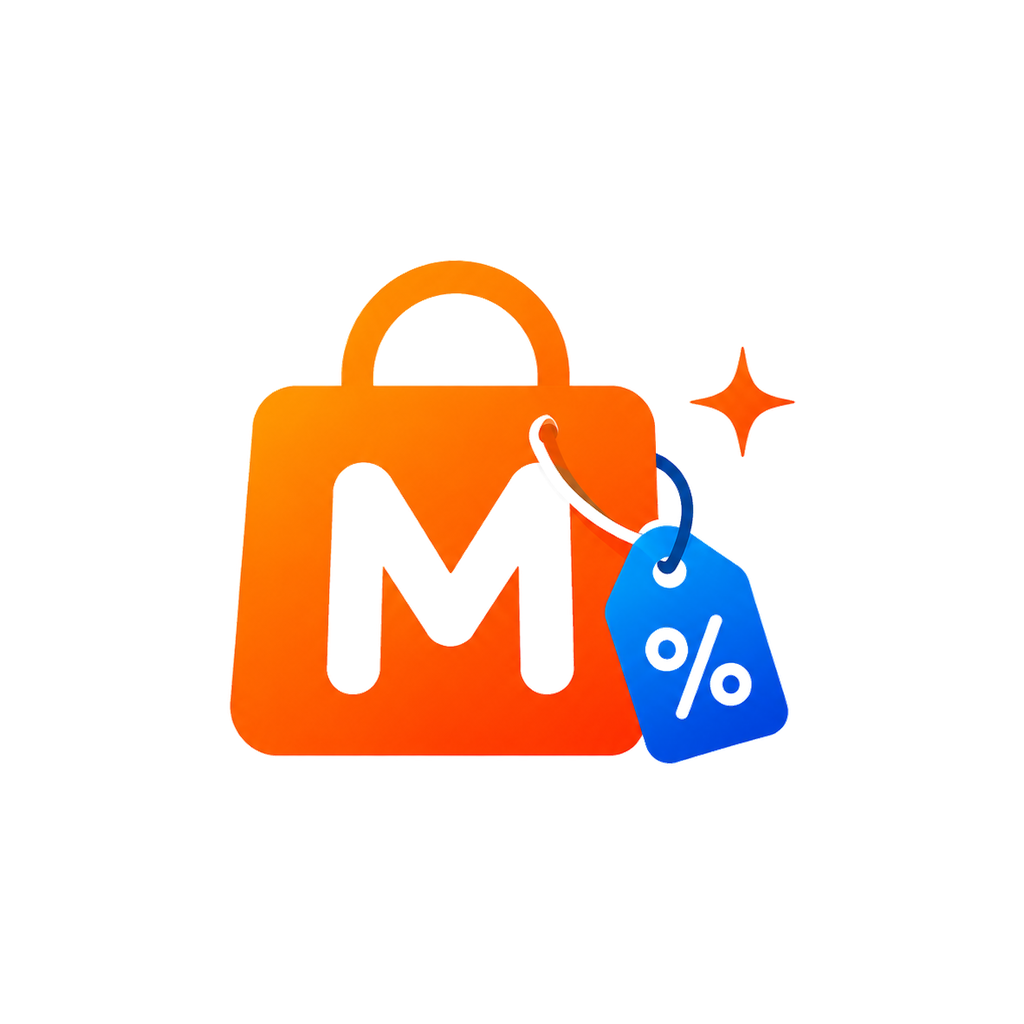
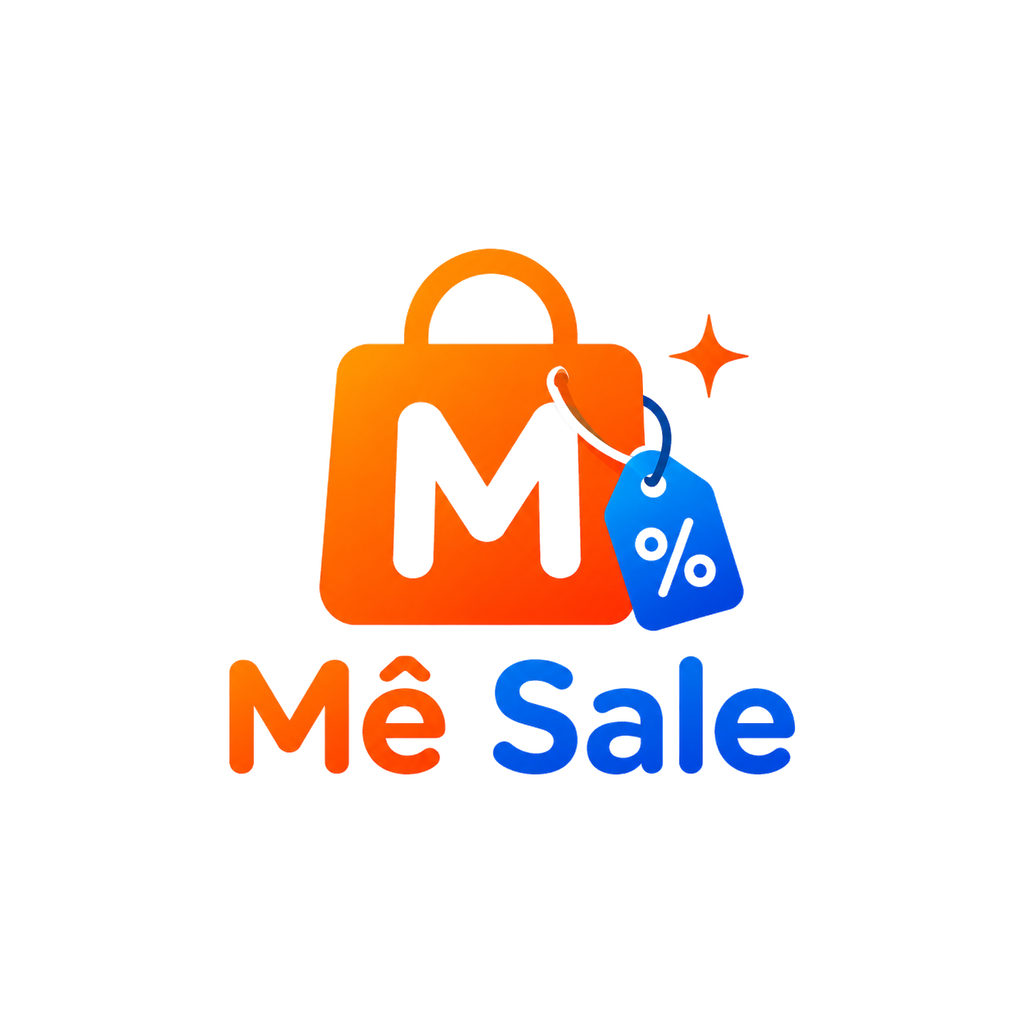
fix(mobile): restore launcher wordmark and app name

Changed region(s): [[0.2188, 0.2188, 0.7812, 0.7812], [0.6562, 0.3125, 0.7812, 0.4375]]

diff --git a/docs/context/CURRENT.md b/docs/context/CURRENT.md
@@ -1,7 +1,7 @@
 # Current Migration Context
 
-- Latest checkpoint: `CKP-20260813-040`
-- Session: `SES-20260813-034`
+- Latest checkpoint: `CKP-20260813-041`
+- Session: `SES-20260813-035`
 - Plan: [migration-plan.md](../migration-plan.md)
 - Phase: M0 P0 remediation and M1 MVP foundation; production referral eligibility gap closed with a scoped additive patch
 - Milestone status: M0 open; M1 open and not complete
@@ -10,7 +10,7 @@
 - Repository: `thichmmo/mesale-app`, intentionally maintained as a Laravel + Expo monorepo
 - Local branch: `codex/mvp-p0-20260809`
 - Remote target: `origin/main`
-- Current batch: `TSK-MOB-049` / `CHG-20260813-040`; Android launcher icon safe-zone remediation is published and CI-verified.
+- Current batch: `TSK-MOB-050` / `CHG-20260813-041`; launcher wordmark and installed app name follow-up is locally verified.
 - Source state, Android guide interaction, and app-selected light/dark presentation are locally verified; physical-device and store gates remain open.
 
 ## 2026-08-13 Android Launcher Icon Safe Zone
@@ -22,6 +22,14 @@
 - Source commit `2effeb2` is published directly to `origin/main`; GitHub Actions run `31702131858` passed mobile tests, Laravel tests, context/secret checks, and both platform exports.
 - Operational IDs: `SES-20260813-034`, `CKP-20260813-040`, `TSK-MOB-049`, `CHG-20260813-040`, `TST-20260813-040`.
 - Google Sheet synchronization is pending because no live connector is available; release remains `NOT READY`.
+
+## 2026-08-13 Launcher Wordmark Follow-up
+
+- Updated the adaptive launcher foreground to retain the exact `Mê Sale` wordmark beneath the shopping mark while still excluding the unreadable tiny tagline.
+- Reduced the complete mark and wordmark into Android's adaptive-icon safe zone so circular masks keep every corner visible.
+- Changed the installed app display name from `Mesale` to `Mê Sale`.
+- Operational IDs: `SES-20260813-035`, `CKP-20260813-041`, `TSK-MOB-050`, `CHG-20260813-041`, `TST-20260813-041`.
+- Verification: mobile `108/108`, TypeScript, Expo Doctor `18/18`, Expo prebuild, Android debug build/install, and Pixel Launcher app-drawer inspection passed.
 
 ## 2026-08-13 Account Tab Hub Recovery
 

diff --git a/docs/context/index.md b/docs/context/index.md
@@ -1,14 +1,14 @@
 # Migration Context Index
 
 - Current context: [CURRENT.md](CURRENT.md)
-- Latest checkpoint: [CKP-20260813-040](checkpoints/CKP-20260813-040.md)
-- Latest session: [SES-20260813-034](sessions/SES-20260813-034.md)
+- Latest checkpoint: [CKP-20260813-041](checkpoints/CKP-20260813-041.md)
+- Latest session: [SES-20260813-035](sessions/SES-20260813-035.md)
 - Latest decision: [DEC-20260812-012](../decisions/DEC-20260812-012.md)
-- Current batch: `TSK-MOB-049` / `CHG-20260813-040` / `TST-20260813-040`
-- Current source base: `f3744dd` (`origin/main` before this batch)
-- Current context checkpoint: `CKP-20260813-040` (published)
-- Current local evidence: mobile `107/107`; TypeScript; Expo Doctor `18/18`; Android adaptive icon build/install and Pixel Launcher inspection
-- Current remote evidence: source `2effeb2` published to `origin/main`; GitHub Actions run `31702131858` passed
+- Current batch: `TSK-MOB-050` / `CHG-20260813-041` / `TST-20260813-041`
+- Current source base: `403ace8` (`origin/main` before this batch)
+- Current context checkpoint: `CKP-20260813-041` (publication pending)
+- Current local evidence: mobile `108/108`; TypeScript; Expo Doctor `18/18`; Android build/install and Pixel Launcher wordmark/display-name verification
+- Current remote evidence: pending publication and GitHub Actions for this batch
 - Plan: [migration-plan.md](../migration-plan.md)
 - Checkpoints: [checkpoints/](checkpoints/)
 - Sessions: [sessions/](sessions/)

diff --git a/docs/context/sessions/SES-20260813-035.md b/docs/context/sessions/SES-20260813-035.md
@@ -1,0 +1,30 @@
+# SES-20260813-035 - Launcher Wordmark And App Name
+
+- Date: 2026-08-13 (`Asia/Bangkok`)
+- Task: `TSK-MOB-050`
+- Change: `CHG-20260813-041`
+- Test: `TST-20260813-041`
+- Status: locally verified; release remains `NOT READY`
+
+## Work
+
+- Restored the exact `Mê Sale` wordmark beneath the shopping mark in the dedicated Android adaptive foreground.
+- Kept the tiny `HOÀN TIỀN SHOPEE & TIKTOK` tagline out of the launcher asset because it is not readable at launcher size.
+- Kept the complete mark and wordmark inside Android's adaptive-icon safe zone.
+- Changed the installed application display name from `Mesale` to `Mê Sale`.
+
+## Verification
+
+- Contract coverage requires the exact `Mê Sale` installed name and a separate 1024x1024 transparent adaptive foreground.
+- Mobile tests: `108/108` passed.
+- TypeScript: passed.
+- Expo Doctor: `18/18` passed.
+- Expo prebuild and Android debug build/install: passed.
+- Pixel Launcher app drawer showed the full logo wordmark and the exact installed label `Mê Sale` without clipping.
+- `git diff --check`: passed.
+
+## Remaining Gates
+
+- Physical Android and OEM launcher-mask checks remain open.
+- Google Sheet synchronization remains pending because no live connector is available.
+- Signed release artifacts and store evidence remain open.

diff --git a/docs/context/checkpoints/CKP-20260813-041.md b/docs/context/checkpoints/CKP-20260813-041.md
@@ -1,0 +1,24 @@
+# CKP-20260813-041 - Launcher Wordmark And App Name
+
+- Session: `SES-20260813-035`
+- Task: `TSK-MOB-050`
+- Change: `CHG-20260813-041`
+- Test: `TST-20260813-041`
+- Status: locally verified; release remains `NOT READY`
+
+## Completed
+
+- Added the `Mê Sale` wordmark back to the safe-zone Android launcher foreground.
+- Changed the installed app display name to `Mê Sale`.
+- Preserved the original full logo and removed no in-app branding.
+
+## Evidence
+
+- Pixel Launcher app drawer showed the complete `Mê Sale` wordmark inside the icon and the exact `Mê Sale` application label.
+- Expo prebuild, Android debug build/install, mobile `108/108`, TypeScript, Expo Doctor `18/18`, and diff checks passed.
+
+## Remaining Gates
+
+- This checkpoint is not a store-release approval.
+- Physical-device and OEM launcher-mask checks remain open.
+- Google Sheet synchronization remains pending because no live connector is available.
